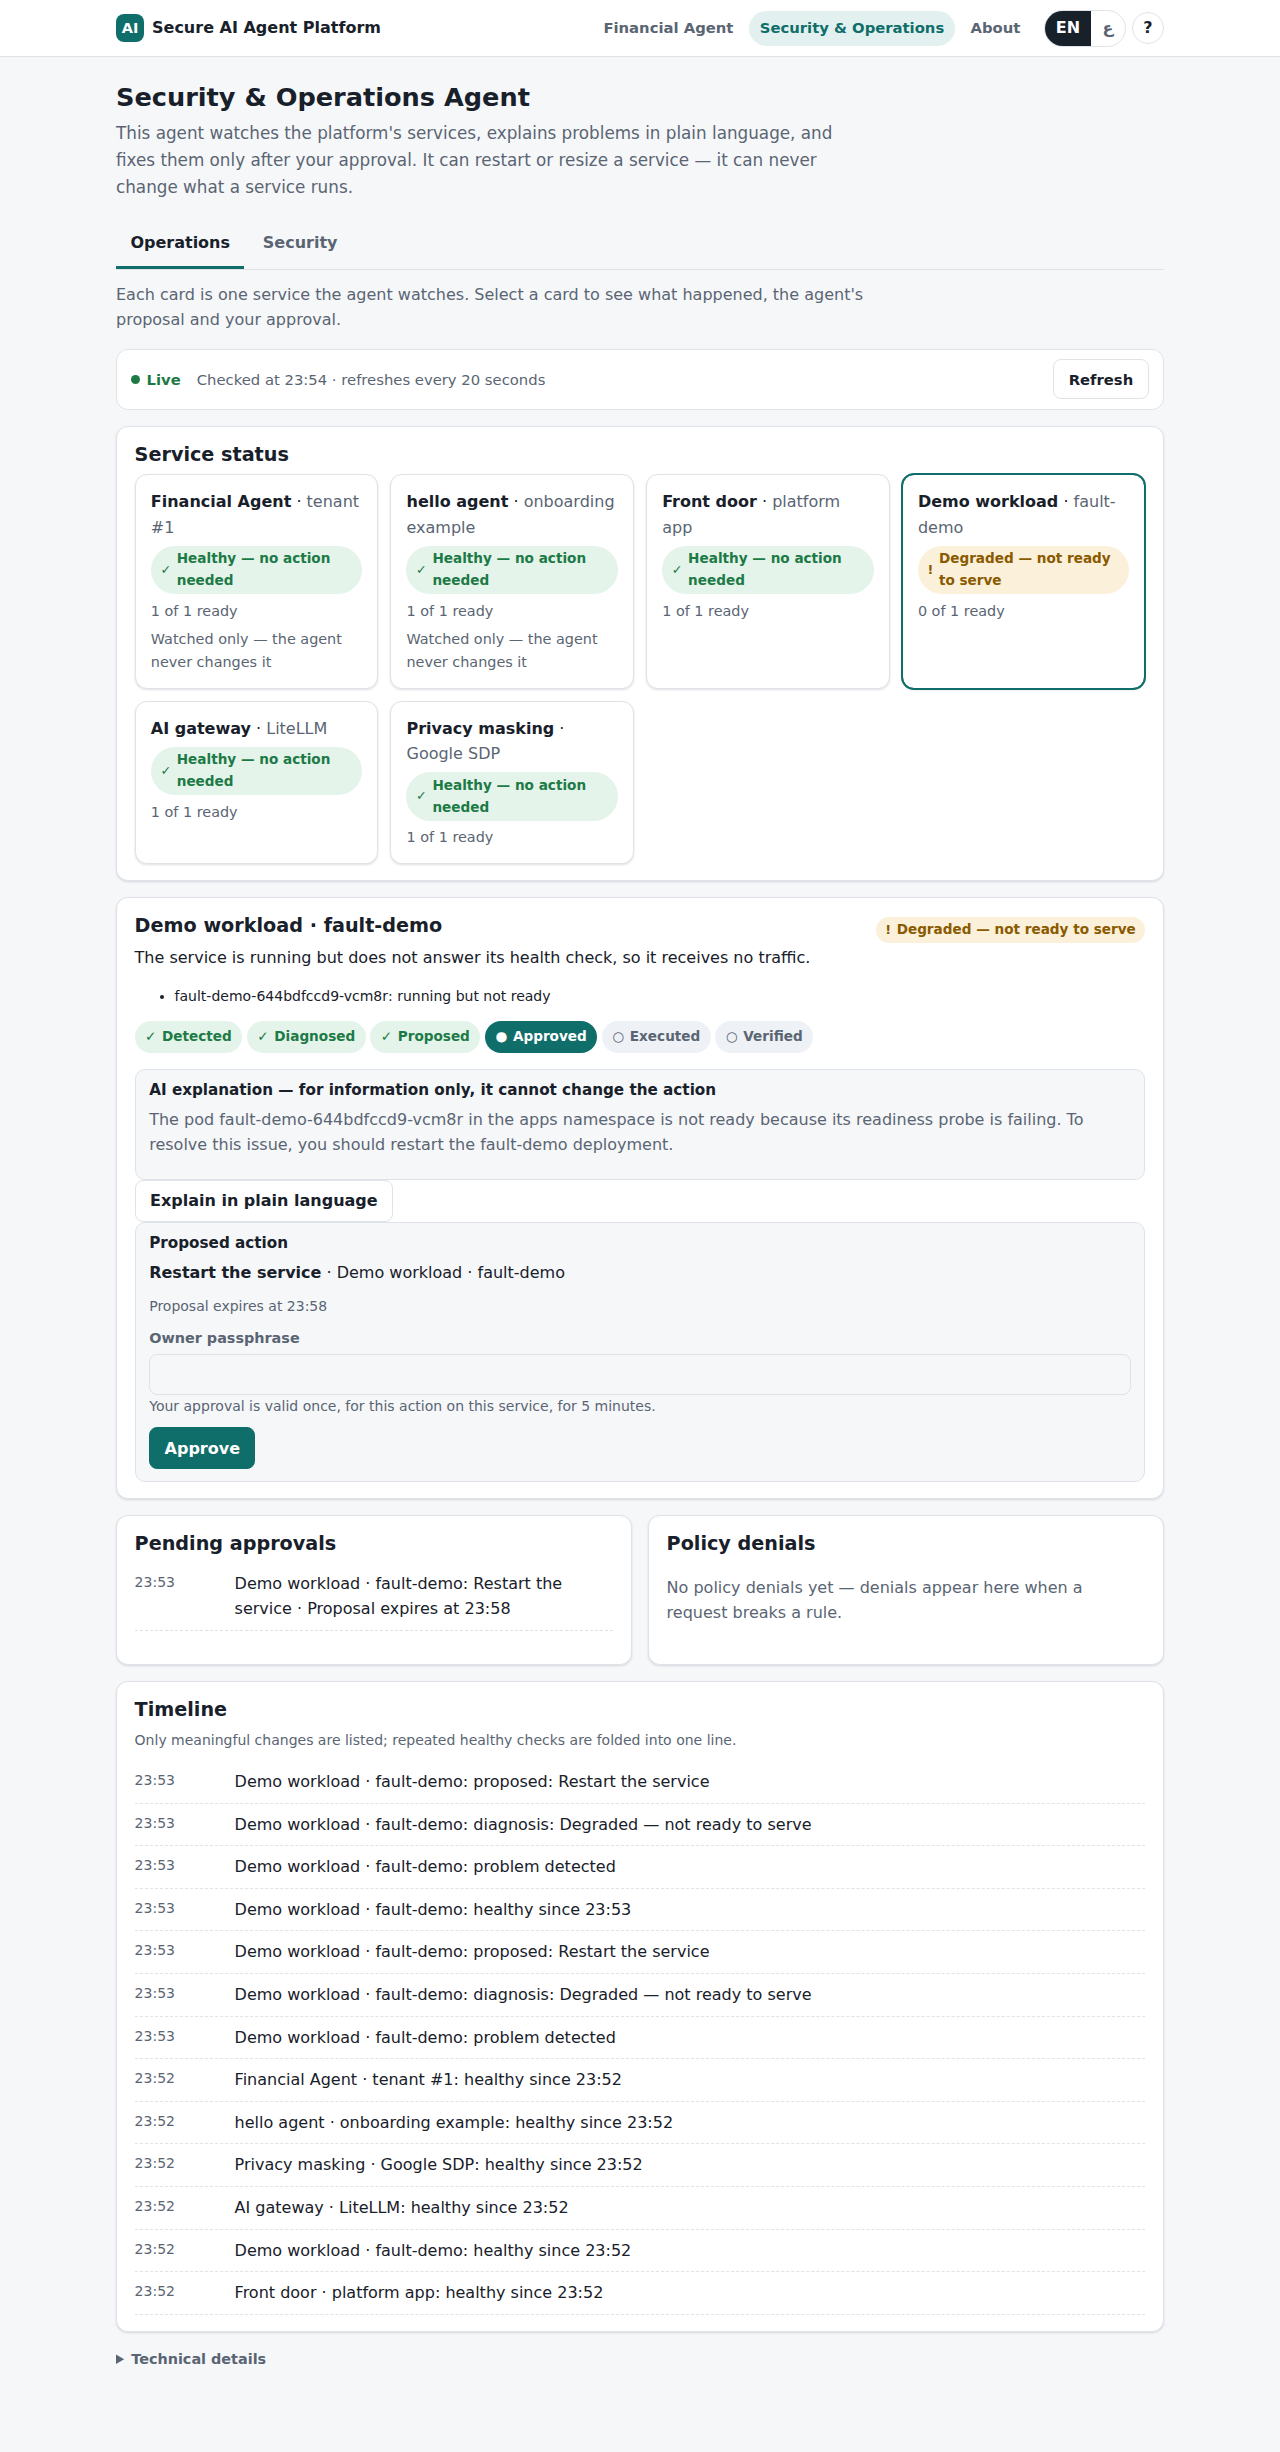
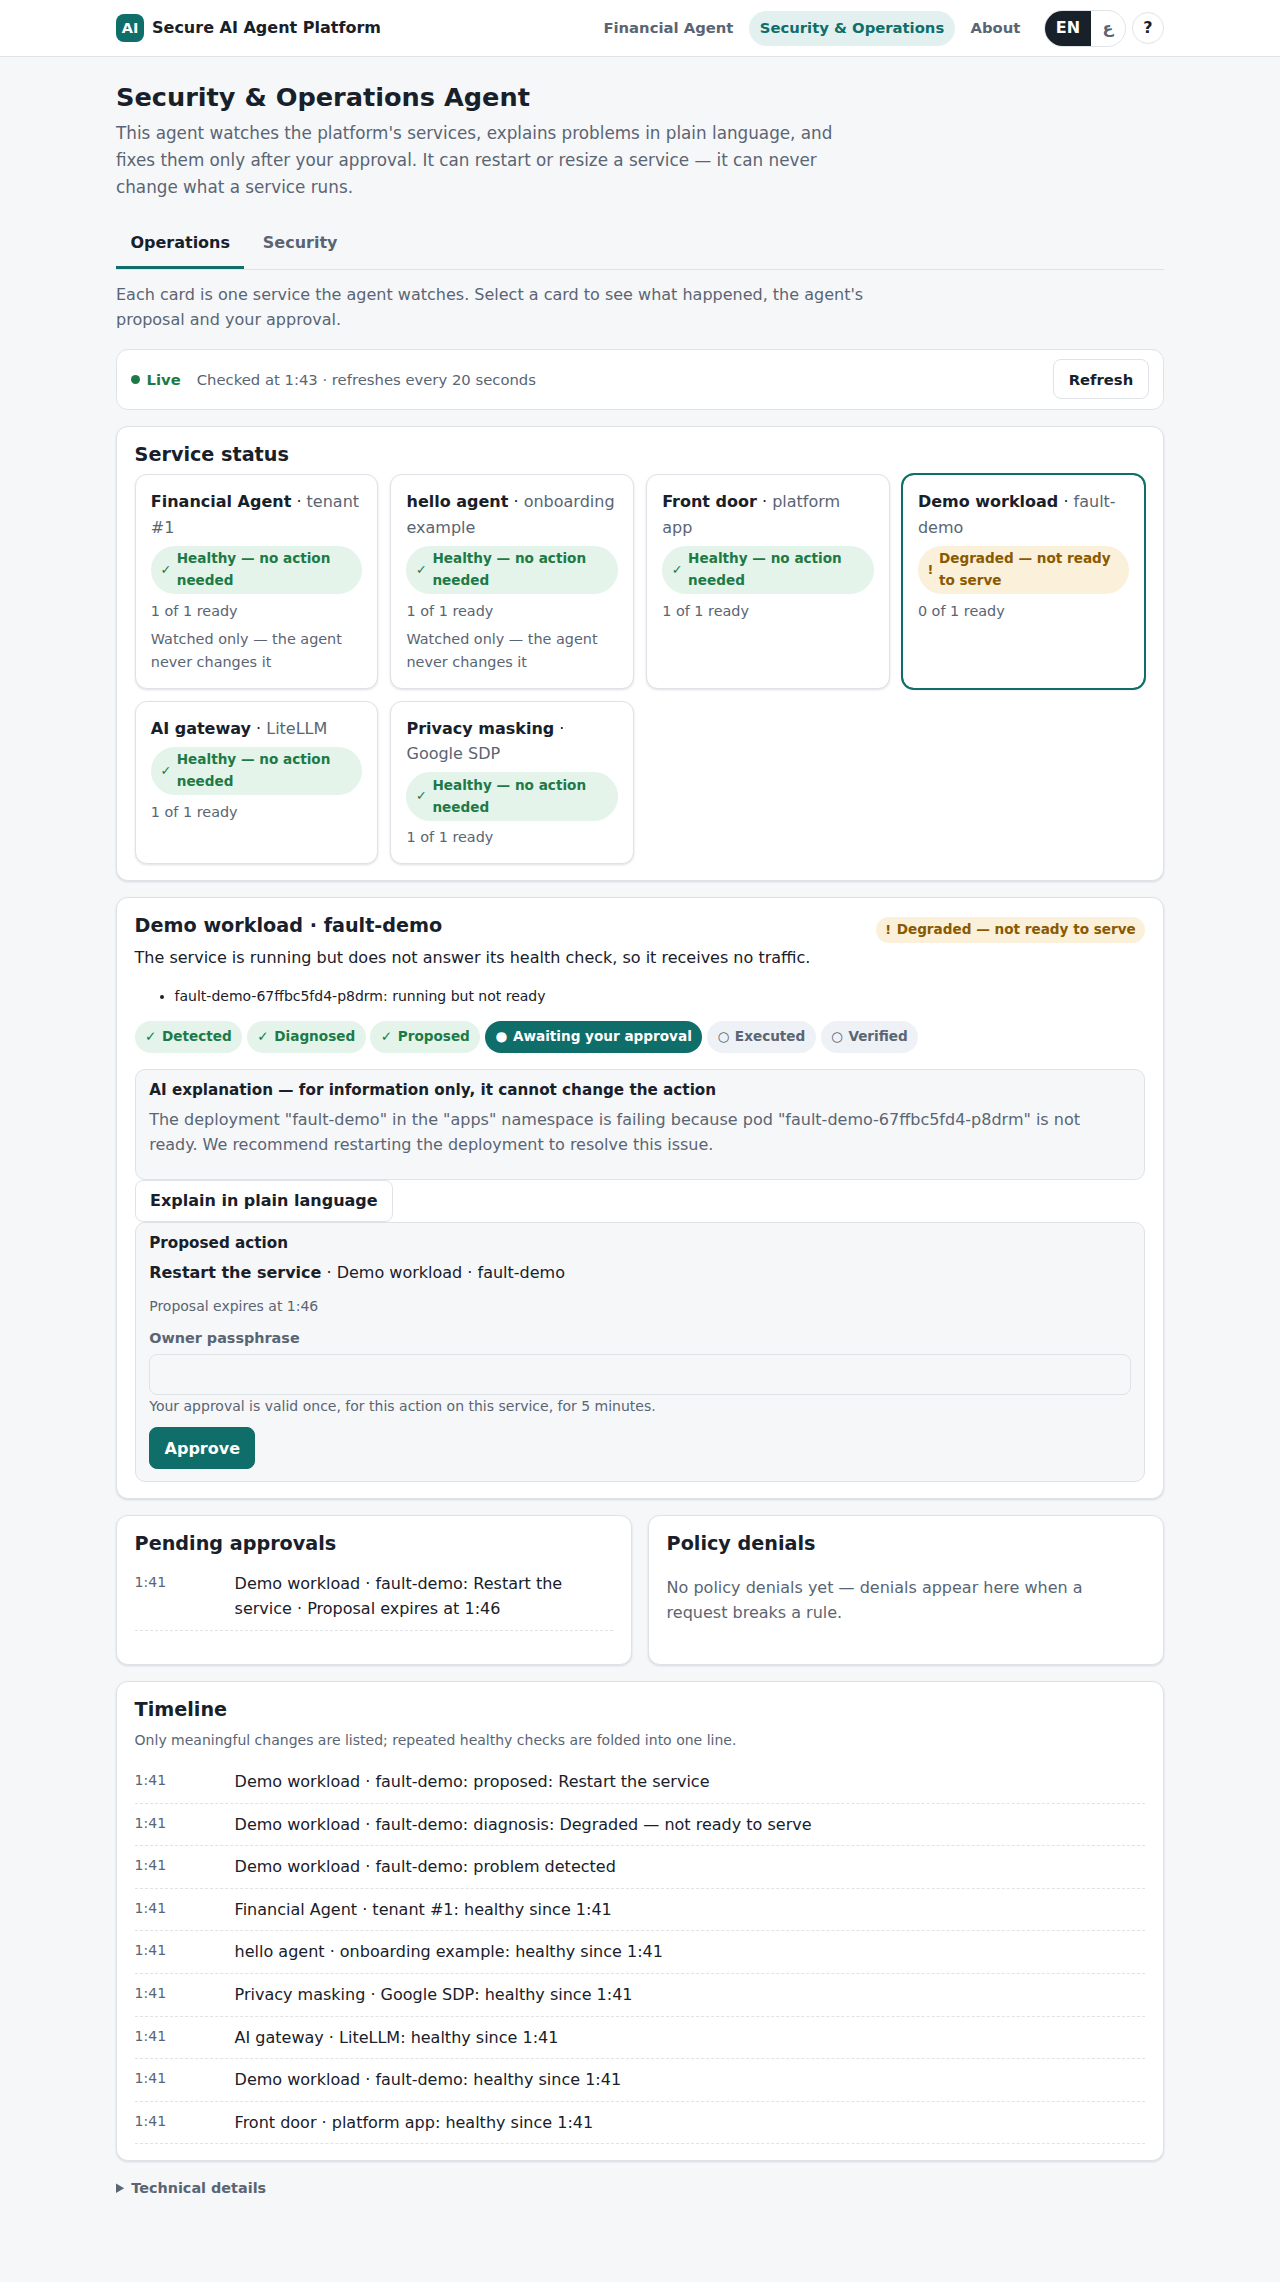
docs(evidence): final pre-recording screenshots (01376fe)

diff --git a/docs/evidence/ui-2026-10-13/README.md b/docs/evidence/ui-2026-10-13/README.md
@@ -1,7 +1,7 @@
 # UI redesign: live screenshots (13 October 2026)
 
 Taken on the live platform through the private port-forwards, with headless Chromium at 1280 px. Clean demo run on
-13–14 October 2026: images from commit `3d83e3e` (pinned in `ae4eea8`); the demo user's expenses were replaced with
+13–14 October 2026: images from commit `01376fe` (pinned in `58ff6f4`; awaiting-approval stage, one sequence per incident, Arabic amounts, Arabic explanation); the demo user's expenses were replaced with
 `make seed-demo` (September 2026: 8 expenses, 1001.89 SAR; October 2026: 9 expenses, 830.49 SAR, including one
 prompt-injection merchant). One fault (`make fault F=wedge`) shows a real incident; no approval was given. The agent
 answered "830.49 SAR" for October in English and Arabic and "1001.89 SAR" for September. All data is synthetic.
